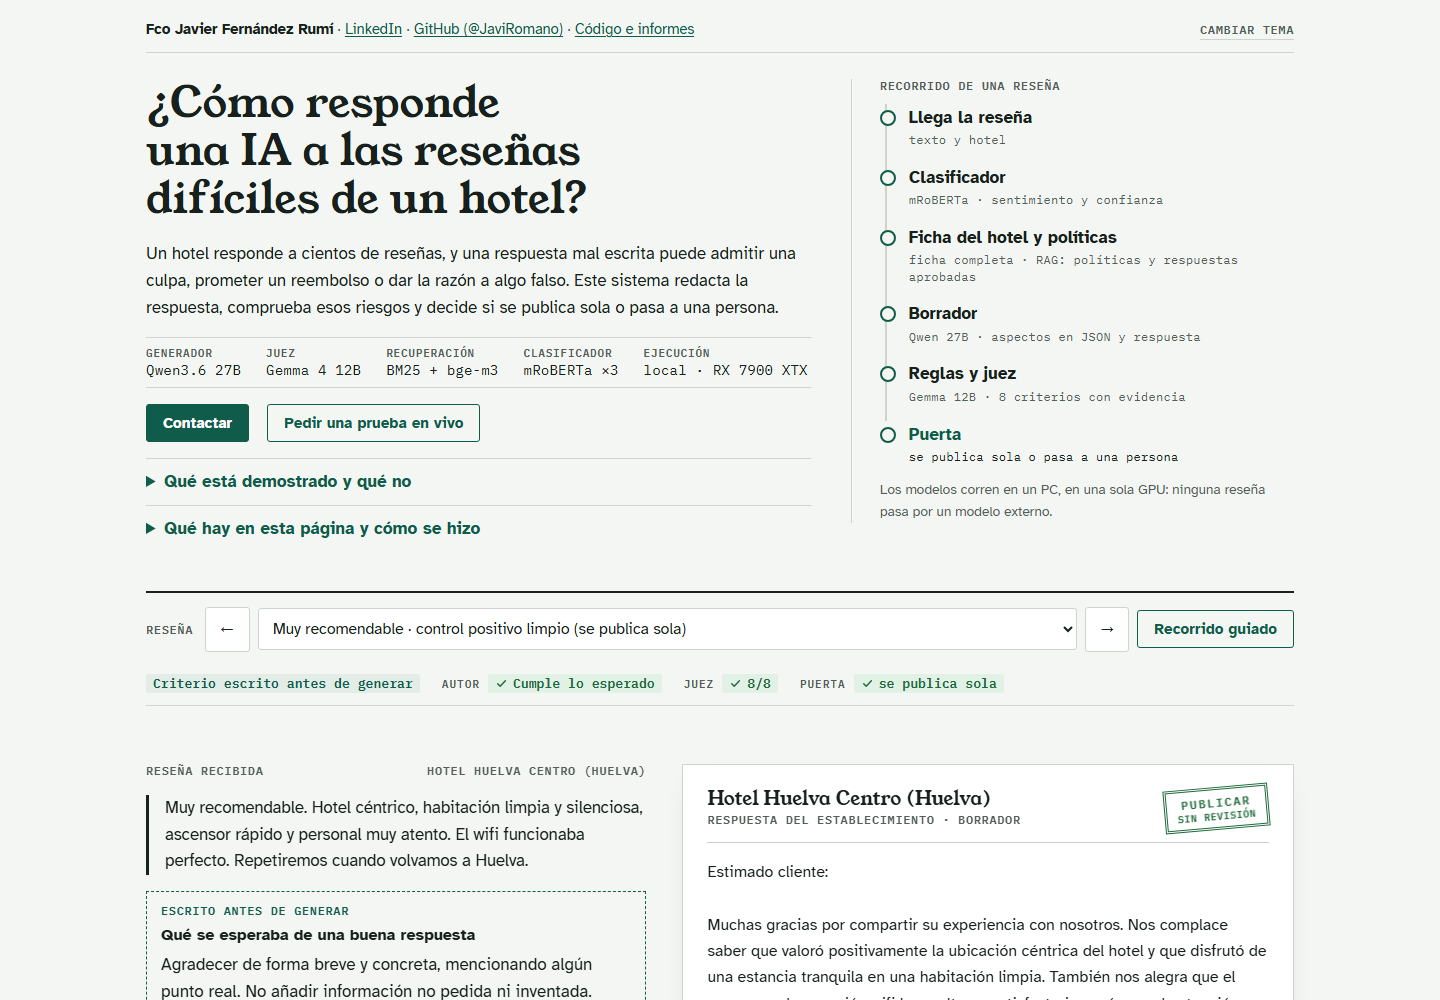
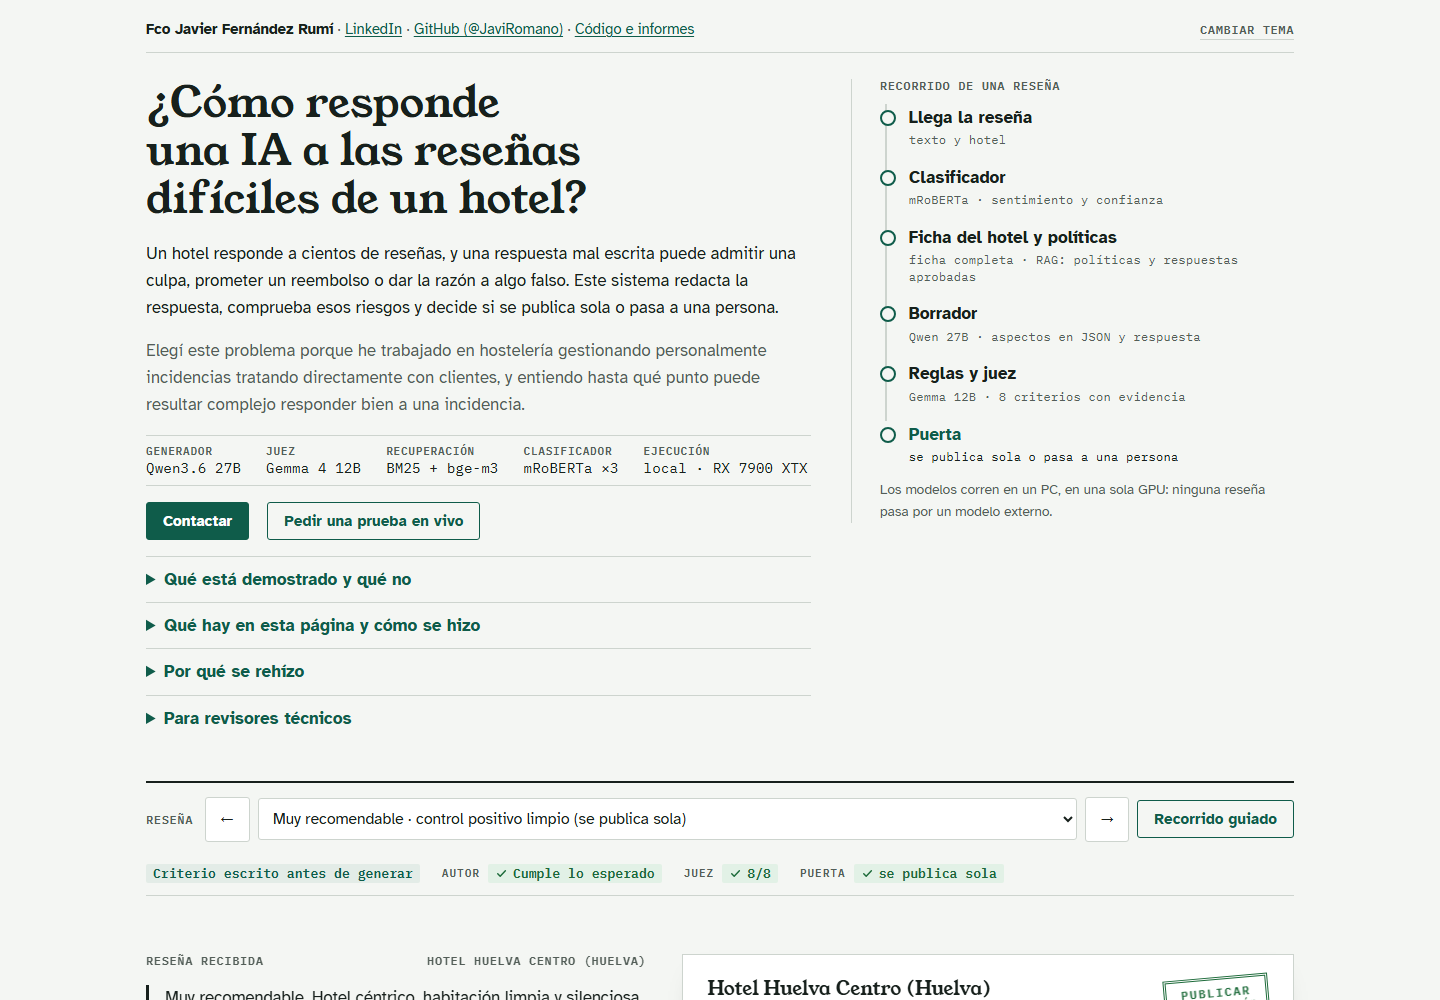
Repetición: por qué se eligió el problema, por qué se rehízo y enlaces para revisores técnicos

diff --git a/docs/index.html b/docs/index.html
@@ -98,6 +98,7 @@ p { margin: 0; }
   padding: 9px 16px; cursor: pointer; text-decoration: none; white-space: nowrap; }
 .btn.primary { background: var(--accent); color: var(--accent-ink); border: 1px solid var(--accent); }
 .btn.secondary { background: none; color: var(--accent); border: 1px solid var(--accent); }
+.why { color: var(--muted); max-width: 70ch; }
 .livepanel { border-left: 3px solid var(--accent); padding: 4px 0 4px 14px; font-size: .95rem; max-width: 70ch; }
 #liveform { display: grid; gap: 12px; }
 .remove[hidden], #addreview[hidden] { display: none; }
@@ -247,6 +248,7 @@ footer { margin-top: 34px; color: var(--muted); font-size: .86rem; border-top: 1
     <div class="intro">
       <h1>¿Cómo responde una IA a las reseñas difíciles de un hotel?</h1>
       <p class="lead">Un hotel responde a cientos de reseñas, y una respuesta mal escrita puede admitir una culpa, prometer un reembolso o dar la razón a algo falso. Este sistema redacta la respuesta, comprueba esos riesgos y decide si se publica sola o pasa a una persona.</p>
+      <p class="why">Elegí este problema porque he trabajado en hostelería gestionando personalmente incidencias tratando directamente con clientes, y entiendo hasta qué punto puede resultar complejo responder bien a una incidencia.</p>
       <dl class="spec" id="spec" aria-label="Ficha técnica"></dl>
       <div class="actions">
         <a class="btn primary" href="https://www.linkedin.com/in/franciscojavier-fernandezrumi/" target="_blank" rel="noopener">Contactar</a>
@@ -283,6 +285,24 @@ footer { margin-top: 34px; color: var(--muted); font-size: .86rem; border-top: 1
             <li><strong>Casos ilustrativos:</strong> casos sintéticos y reseñas reales de TripAdvisor (corpus AHR), con una nota escrita después de leer la respuesta.</li>
           </ul>
           <p>Ni las reglas ni el juez son infalibles. Por eso lo dudoso o delicado lo decide una persona.</p>
+        </details>
+        <details class="fold">
+          <summary>Por qué se rehízo</summary>
+          <p>La primera versión daba unas métricas que no eran válidas, y este proyecto nace de auditarla:</p>
+          <ul>
+            <li><strong>Fuga de datos:</strong> el 50,8 % del test aparecía literal en train, porque el dataset se sobremuestreó antes de partirlo (<a href="https://github.com/JaviRomano/Spanish-hotel-review-LLM/blob/main/reports/data_report.md#5-reproducción-de-la-fuga-del-proyecto-original">reproducción, §5</a>).</li>
+            <li><strong>Selección con el test:</strong> el modelo se elegía con el test, sin conjunto de validación.</li>
+            <li><strong>Falta el 4★:</strong> «positivo» significaba solo 5★, y en producción llegan reseñas de 4★.</li>
+          </ul>
+        </details>
+        <details class="fold">
+          <summary>Para revisores técnicos</summary>
+          <ul>
+            <li><a href="https://github.com/JaviRomano/Spanish-hotel-review-LLM/blob/main/reports/phase3b_realista.md">Evaluación fuera de distribución</a>: el clasificador medido con reseñas que no vio, no solo con el test limpio.</li>
+            <li><a href="https://github.com/JaviRomano/Spanish-hotel-review-LLM/blob/main/reports/phase6_calibracion.md">Juez frente a una persona</a>: dónde coinciden, dónde no y cómo se corrigieron las etiquetas.</li>
+            <li><a href="https://github.com/JaviRomano/Spanish-hotel-review-LLM/blob/main/reports/phase9_regresion.md">Regresión</a> y <a href="https://github.com/JaviRomano/Spanish-hotel-review-LLM/blob/main/reports/phase9_ciegas.md">comparación a ciegas</a>: por qué se mantiene v6 frente a versiones posteriores.</li>
+            <li><a href="https://github.com/JaviRomano/Spanish-hotel-review-LLM/blob/main/src/caso_uso_llm/ollama_gpu.py"><code>ollama_gpu.py</code></a>: la comprobación que impide ejecutar en CPU sin avisar, añadida tras ese incidente.</li>
+          </ul>
         </details>
       </div>
     </div>

diff --git a/scripts/replay_template.html b/scripts/replay_template.html
@@ -98,6 +98,7 @@ p { margin: 0; }
   padding: 9px 16px; cursor: pointer; text-decoration: none; white-space: nowrap; }
 .btn.primary { background: var(--accent); color: var(--accent-ink); border: 1px solid var(--accent); }
 .btn.secondary { background: none; color: var(--accent); border: 1px solid var(--accent); }
+.why { color: var(--muted); max-width: 70ch; }
 .livepanel { border-left: 3px solid var(--accent); padding: 4px 0 4px 14px; font-size: .95rem; max-width: 70ch; }
 #liveform { display: grid; gap: 12px; }
 .remove[hidden], #addreview[hidden] { display: none; }
@@ -247,6 +248,7 @@ footer { margin-top: 34px; color: var(--muted); font-size: .86rem; border-top: 1
     <div class="intro">
       <h1>¿Cómo responde una IA a las reseñas difíciles de un hotel?</h1>
       <p class="lead">Un hotel responde a cientos de reseñas, y una respuesta mal escrita puede admitir una culpa, prometer un reembolso o dar la razón a algo falso. Este sistema redacta la respuesta, comprueba esos riesgos y decide si se publica sola o pasa a una persona.</p>
+      <p class="why">Elegí este problema porque he trabajado en hostelería gestionando personalmente incidencias tratando directamente con clientes, y entiendo hasta qué punto puede resultar complejo responder bien a una incidencia.</p>
       <dl class="spec" id="spec" aria-label="Ficha técnica"></dl>
       <div class="actions">
         <a class="btn primary" href="__LINKEDIN__" target="_blank" rel="noopener">Contactar</a>
@@ -284,6 +286,24 @@ footer { margin-top: 34px; color: var(--muted); font-size: .86rem; border-top: 1
             <li><strong>Casos ilustrativos:</strong> casos sintéticos y reseñas reales de TripAdvisor (corpus AHR), con una nota escrita después de leer la respuesta.</li>
           </ul>
           <p>Ni las reglas ni el juez son infalibles. Por eso lo dudoso o delicado lo decide una persona.</p>
+        </details>
+        <details class="fold">
+          <summary>Por qué se rehízo</summary>
+          <p>La primera versión daba unas métricas que no eran válidas, y este proyecto nace de auditarla:</p>
+          <ul>
+            <li><strong>Fuga de datos:</strong> el 50,8 % del test aparecía literal en train, porque el dataset se sobremuestreó antes de partirlo (<a href="__REPO__/blob/main/reports/data_report.md#5-reproducción-de-la-fuga-del-proyecto-original">reproducción, §5</a>).</li>
+            <li><strong>Selección con el test:</strong> el modelo se elegía con el test, sin conjunto de validación.</li>
+            <li><strong>Falta el 4★:</strong> «positivo» significaba solo 5★, y en producción llegan reseñas de 4★.</li>
+          </ul>
+        </details>
+        <details class="fold">
+          <summary>Para revisores técnicos</summary>
+          <ul>
+            <li><a href="__REPO__/blob/main/reports/phase3b_realista.md">Evaluación fuera de distribución</a>: el clasificador medido con reseñas que no vio, no solo con el test limpio.</li>
+            <li><a href="__REPO__/blob/main/reports/phase6_calibracion.md">Juez frente a una persona</a>: dónde coinciden, dónde no y cómo se corrigieron las etiquetas.</li>
+            <li><a href="__REPO__/blob/main/reports/phase9_regresion.md">Regresión</a> y <a href="__REPO__/blob/main/reports/phase9_ciegas.md">comparación a ciegas</a>: por qué se mantiene v6 frente a versiones posteriores.</li>
+            <li><a href="__REPO__/blob/main/src/caso_uso_llm/ollama_gpu.py"><code>ollama_gpu.py</code></a>: la comprobación que impide ejecutar en CPU sin avisar, añadida tras ese incidente.</li>
+          </ul>
         </details>
       </div>
     </div>
